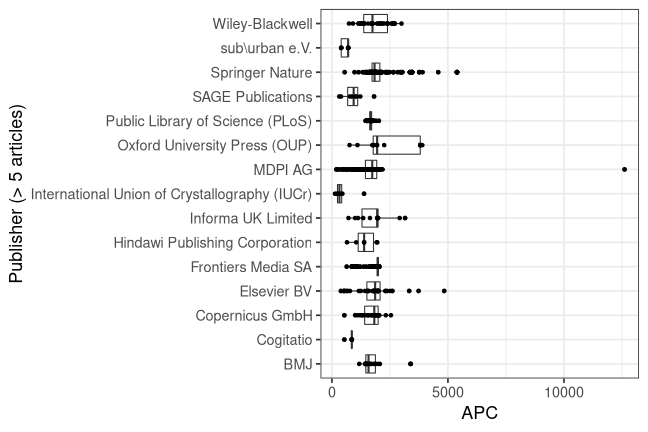
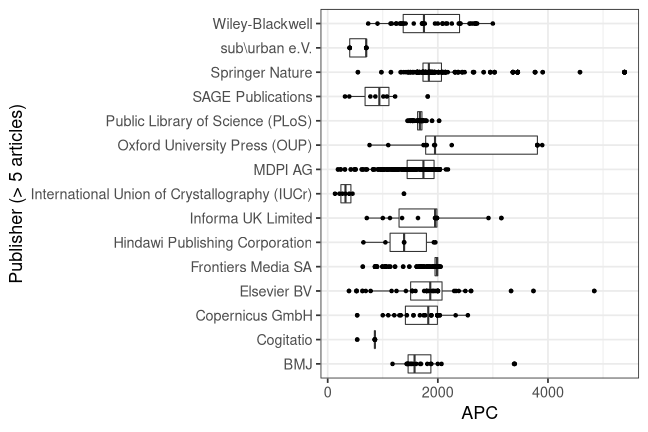
update: uni frankfurt apc data 2021 (cost data fixed)

diff --git a/_posts/2022-05-13-frankfurt.md b/_posts/2022-05-13-frankfurt.md
@@ -22,14 +22,14 @@ Contact Person is [Roland Wagner](mailto:r.wagner@ub.uni-frankfurt.de).
 
 
 
-The new data set covers publication fees for 482 articles, total expenditure amounts to 932 676€ and the average fee is 1 935€.
+The new data set covers publication fees for 482 articles, total expenditure amounts to 921 324€ and the average fee is 1 911€.
 
 The following table provides an overview:
 
 
 |                                                            | Articles| Fees paid in EURO| Mean Fee paid|
 |:-----------------------------------------------------------|--------:|-----------------:|-------------:|
-|MDPI AG                                                     |      136|            245145|          1803|
+|MDPI AG                                                     |      136|            233794|          1719|
 |Frontiers Media SA                                          |      117|            218010|          1863|
 |Springer Nature                                             |      102|            235324|          2307|
 |Public Library of Science (PLoS)                            |       23|             40003|          1739|
